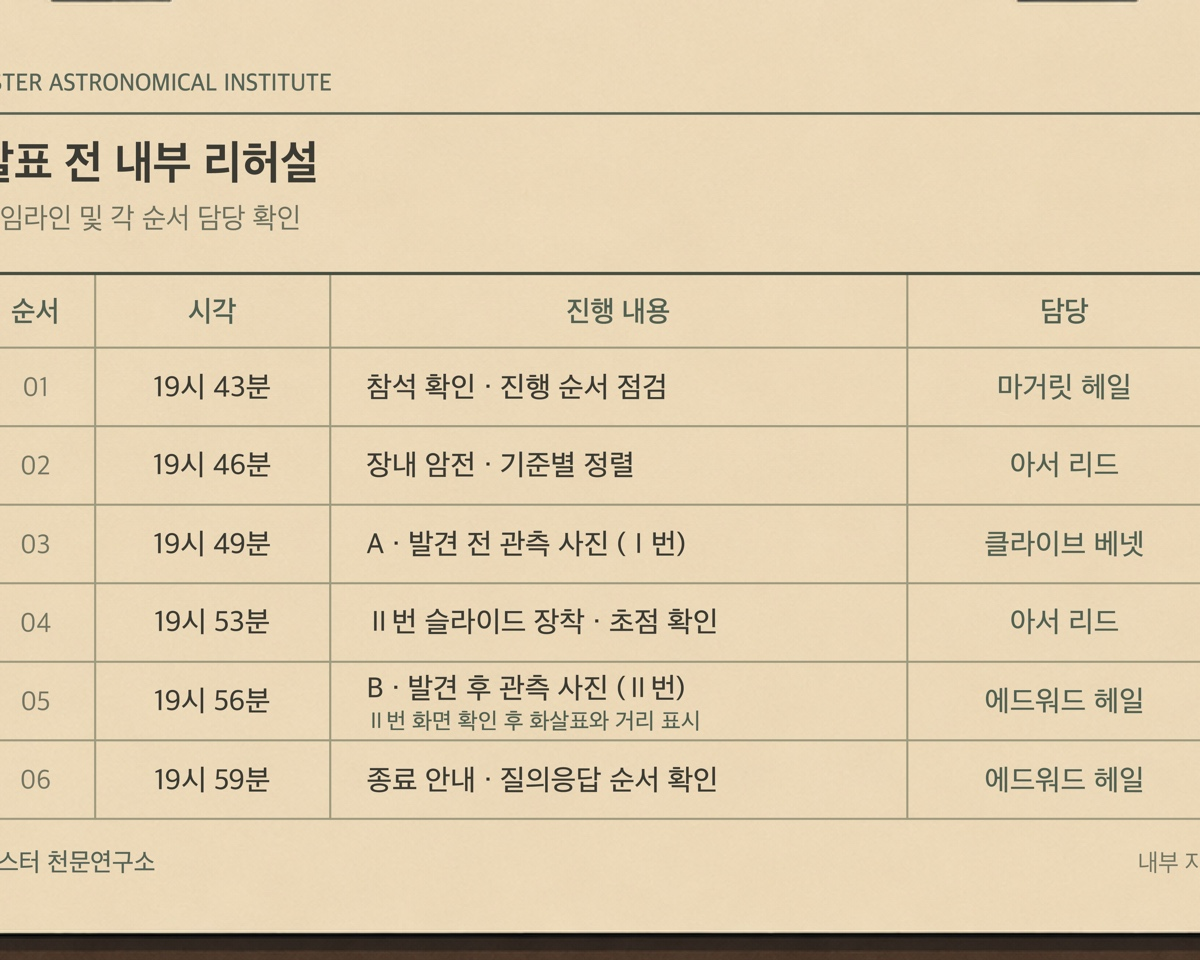
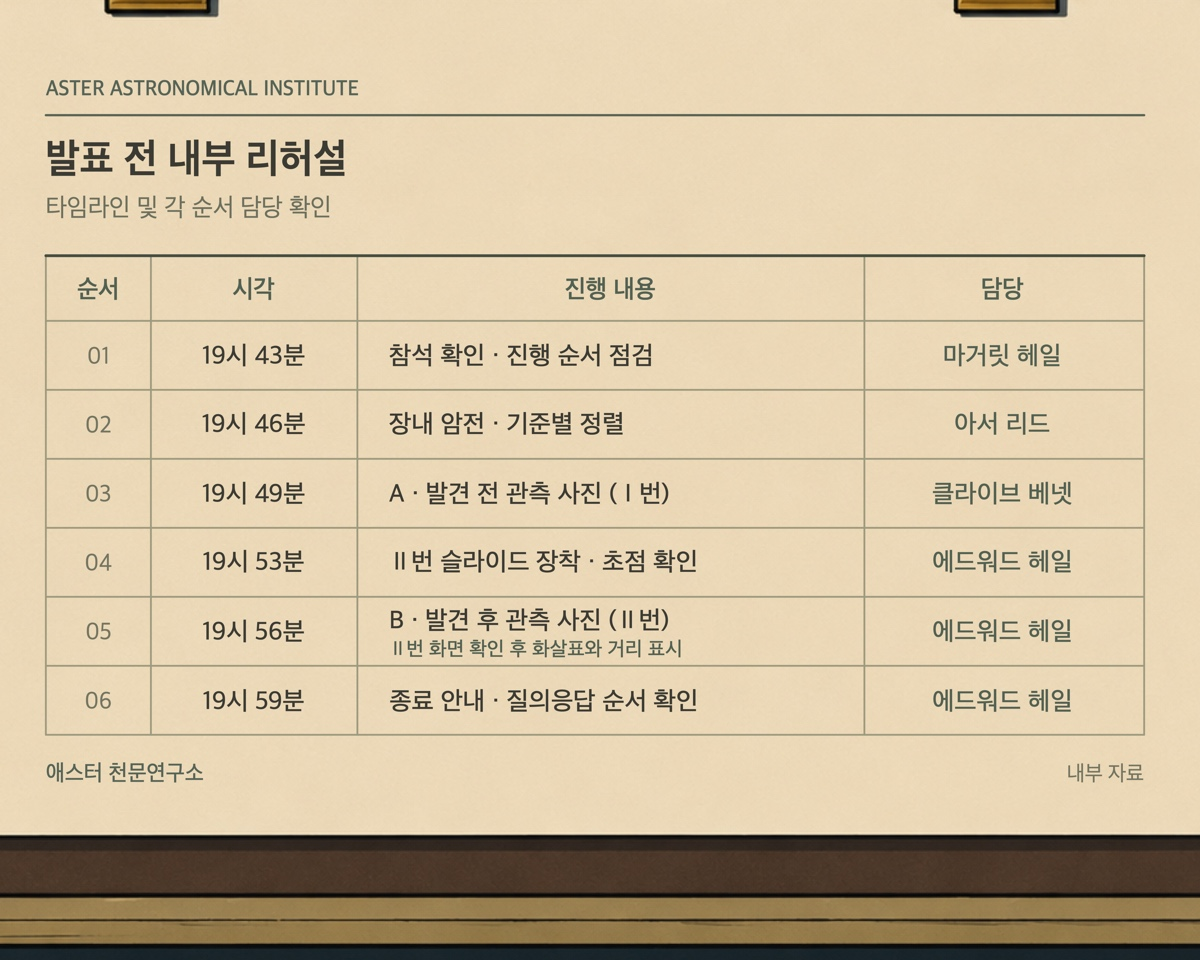
Fit the case overview, restore page zoom, and refresh the schedule

Changed region(s): [[0.0, 0.0625, 1.0, 1.0], [0.7708, 0.0, 0.8942, 0.0312], [0.0617, 0.0, 0.185, 0.0312]]

diff --git a/traces-of-guilt/style.css b/traces-of-guilt/style.css
@@ -2039,6 +2039,7 @@ body:has(.viewer[open], .hint-confirm[open], .answer-confirm[open], .suspect-pic
   .paper-right { padding-top: 1rem; border-top: 1px solid #c0aa855c; border-radius: 0 0 4px 4px; --page-joint: linear-gradient(#7d5c3225, transparent 9%); }
   .paper-left { --page-joint: linear-gradient(transparent, transparent); }
   .case-intro h3 { max-width: 11em; font-size: clamp(1.55rem, 6.3vw, 2.4rem); }
+  .case-intro .paper-description { margin-top: .55rem; font-size: .86rem; line-height: 1.52; }
   .case-objective { font-size: .86rem; margin-top: .45rem; }
   .overview-index { margin-block: .45rem; }
   .art-page, .hint-page { --margin: clamp(.8rem, 3.6vw, 1.5rem); }
@@ -2065,8 +2066,6 @@ body:has(.viewer[open], .hint-confirm[open], .answer-confirm[open], .suspect-pic
 
 @media (max-width: 760px), (max-height: 500px) and (orientation: landscape) {
   .desk:not(.is-reading) .paper { --margin: clamp(.7rem, 3.1vw, 1.15rem); }
-  .desk:not(.is-reading) .case-intro h3 { font-size: clamp(1.55rem, 6.3vw, 2.4rem); }
-  .desk:not(.is-reading) .paper-description { margin-top: .55rem; font-size: .9rem; line-height: 1.55; }
   .desk:not(.is-reading) .clue-index {
     display: grid;
     grid-template-columns: repeat(2, minmax(0, 1fr));
@@ -2085,7 +2084,6 @@ body:has(.viewer[open], .hint-confirm[open], .answer-confirm[open], .suspect-pic
     overflow-wrap: anywhere;
   }
   .desk:not(.is-reading) .clue-index .icon { display: none; }
-  .desk:not(.is-reading) .case-intro .paper-description { font-size: .84rem; line-height: 1.48; }
 }
 
 @media (max-width: 760px) {
@@ -2123,12 +2121,27 @@ body:has(.viewer[open], .hint-confirm[open], .answer-confirm[open], .suspect-pic
   .desk .reader { --edge-depth: 8px; --page-nav-padding: .32rem; }
 }
 
-@media (min-width: 761px) and (max-width: 1080px) {
-  .case-intro { --margin: clamp(.75rem, 1.8vw, 1.35rem); }
-  .case-intro h3 { margin-top: .3rem; font-size: clamp(1.65rem, 3.1vw, 2.2rem); }
-  .case-intro .paper-description { margin-top: .5rem; font-size: .88rem; line-height: 1.52; }
-  .case-intro .case-objective { margin-top: .5rem; font-size: .8rem; line-height: 1.45; }
-  .case-intro .overview-index { margin-block: .4rem; }
+@media (min-width: 761px) {
+  .case-intro { --margin: clamp(.8rem, calc(var(--leaf-height) * .056), 2.4rem); }
+  .case-intro-content {
+    min-height: 0;
+    overflow: auto;
+    overscroll-behavior: contain;
+    scrollbar-width: thin;
+    scrollbar-color: #95724d #dfcdab;
+  }
+  .case-intro h3 {
+    margin-top: clamp(.3rem, calc(var(--leaf-height) * .016), .65rem);
+    font-size: clamp(1.35rem, calc(var(--leaf-height) * .09), 2.75rem);
+    line-height: 1.13;
+  }
+  .case-intro .paper-description {
+    margin-top: clamp(.42rem, calc(var(--leaf-height) * .024), .85rem);
+    font-size: clamp(.84rem, calc(var(--leaf-height) * .035), 1.02rem);
+    line-height: 1.55;
+  }
+  .case-intro .case-objective { margin-top: .48rem; font-size: .86rem; line-height: 1.5; }
+  .case-intro .overview-index { margin-block: .42rem 0; }
 }
 
 @media (min-width: 761px) and (max-height: 500px) {
@@ -2150,10 +2163,10 @@ body:has(.viewer[open], .hint-confirm[open], .answer-confirm[open], .suspect-pic
 @media (max-width: 360px) {
   .desk { --desk-gutter: .75rem; }
   .desk:not(.is-reading) .case-intro { --margin: .65rem; }
-  .desk:not(.is-reading) .case-intro h3 { margin-top: .22rem; font-size: 1.36rem; }
-  .desk:not(.is-reading) .case-intro .paper-description { margin-top: .4rem; font-size: .79rem; line-height: 1.42; }
-  .desk:not(.is-reading) .case-objective { margin-top: .35rem; font-size: .78rem; line-height: 1.4; }
-  .desk:not(.is-reading) .overview-index { margin-block: .3rem; }
+  .case-intro h3 { margin-top: .22rem; font-size: 1.36rem; }
+  .case-intro .paper-description { margin-top: .4rem; font-size: .79rem; line-height: 1.42; }
+  .case-intro .case-objective { margin-top: .35rem; font-size: .78rem; line-height: 1.4; }
+  .case-intro .overview-index { margin-block: .3rem; }
   .desk:not(.is-reading) .scene-map { width: min(100%, 31dvh); }
   .hint-card { --hint-pad: .52rem; min-height: 4.45rem; }
   .hint-card p { font-size: .86rem; line-height: 1.49; }

diff --git a/traces-of-guilt/game.js b/traces-of-guilt/game.js
@@ -1,4 +1,4 @@
-import { caseFile } from "./case-data.js?v=solution-slide-switch";
+import { caseFile } from "./case-data.js?v=book-overview";
 
 const entrance = document.querySelector(".entrance");
 const enterButton = entrance.querySelector(".enter-room");
@@ -243,14 +243,15 @@ function overview(left, right) {
   const { title, scene } = caseFile;
   left.classList.add("case-intro");
   right.classList.add("art-page");
-  left.innerHTML = `<p class="paper-kicker">${scene.period}</p>
+  left.innerHTML = `<div class="case-intro-content">
+    <p class="paper-kicker">${scene.period}</p>
     <h3 tabindex="-1">${title}</h3>
     ${scene.description.map(paragraph => `<p class="paper-description">${paragraph}</p>`).join("")}
     <p class="case-objective">${scene.objective}</p>
     <details class="overview-index"><summary>단서 목록</summary>
       <ol class="clue-index">${clueLinks.map(({ sheetIndex, clueNumber, action }) => `<li><button type="button" data-clue="${sheetIndex}">
         <span>${number(clueNumber)}</span><span>${action}</span></button></li>`).join("")}</ol>
-    </details>`;
+    </details></div>`;
   right.innerHTML = `${sheetHeading(scene.title, scene.image)}
     ${sceneArt(`${scene.title} 사건 현장`, scene.image)}`;
 }
@@ -525,10 +526,10 @@ function turnPage(outgoing, incoming, forward, nextClue) {
 
 function updateNavigation() {
   const currentPage = Math.max(0, activePage);
-  pageCount.textContent = `${currentPage + 1} / ${lastPage + 1} 펼침면`;
+  pageCount.textContent = activePage === overviewPage ? "사건 개요" : `${activePage + 1} / ${lastPage + 1} 펼침면`;
   for (const button of reader.querySelectorAll("[data-step]")) {
-    const destination = currentPage + Number(button.dataset.step);
-    button.disabled = destination < 0 || destination > lastPage;
+    const destination = activePage + Number(button.dataset.step);
+    button.disabled = destination < overviewPage || destination > lastPage;
   }
   clueTabs.hidden = !clueLinks.length || activePage >= hintsPage;
   for (const button of reader.querySelectorAll(".bookmarks [data-page]")) {
@@ -575,8 +576,7 @@ function focusSheet(layout) {
 }
 
 function stepSpread(step) {
-  const destination = Math.max(0, activePage) + step;
-  if (destination >= 0) showPage(destination);
+  showPage(activePage + step);
 }
 
 function showPage(page, animate = true, clue) {

diff --git a/traces-of-guilt/case-data.js b/traces-of-guilt/case-data.js
@@ -2,7 +2,7 @@ const illustrations = {
   scene: "planetarium/main.png?v=rehearsal-slide-handoff",
   testimonyA: "planetarium/witnesses-01.png?v=witness-proof",
   testimonyB: "planetarium/witnesses-02.png?v=character-faces",
-  schedule: "planetarium/schedule.png?v=clue-art-refresh",
+  schedule: "planetarium/schedule.png?v=book-overview",
   console: "planetarium/console.png?v=clue-art-refresh",
   photo: "planetarium/photo.png?v=clue-art-refresh",
   drawer: "planetarium/drawer.png?v=clue-art-refresh",
@@ -130,10 +130,10 @@ export const caseFile = {
     stepsTitle: "장면별 해설",
     steps: [
       {
-        image: "planetarium/solution/01-rehearsal-schedule.jpg",
-        alt: "19시 49분 리허설 A와 19시 56분 리허설 B가 적힌 진행표",
+        image: "planetarium/solution/01-rehearsal-schedule.jpg?v=book-overview",
+        alt: "리허설 A, 에드워드 헤일이 맡은 Ⅱ번 장착과 초점 확인, 리허설 B가 적힌 진행표",
         title: "예정된 리허설 순서",
-        text: "19시 49분에는 투영기에 먼저 끼운 Ⅰ번으로 발견 전 사진을 띄울 예정이었어요. Ⅱ번은 19시 53분에 장착하고 19시 56분에 보여주는 순서였죠. 화살표와 거리는 Ⅱ번 화면을 확인한 뒤에 표시하기로 했어요."
+        text: "19시 49분에는 투영기에 먼저 끼운 Ⅰ번으로 발견 전 사진을 띄울 예정이었어요. 에드워드 헤일은 19시 53분에 Ⅱ번을 장착하고 초점을 확인한 뒤, 19시 56분에 사진을 보여주기로 했어요. 화살표와 거리는 Ⅱ번 화면을 확인한 뒤에 표시하는 순서였어요."
       },
       {
         image: "planetarium/solution/02-margaret-testimony.jpg",

diff --git a/traces-of-guilt/index.html b/traces-of-guilt/index.html
@@ -8,8 +8,8 @@
   <meta name="site-kind" content="gaming">
   <title>Traces of Guilt</title>
   <link rel="canonical" href="https://iontail.github.io/traces-of-guilt/">
-  <link rel="stylesheet" href="style.css?v=solution-source">
-  <script src="game.js?v=solution-slide-switch" type="module"></script>
+  <link rel="stylesheet" href="style.css?v=book-overview">
+  <script src="game.js?v=book-overview" type="module"></script>
 </head>
 <body>
   <svg class="icon-definitions" aria-hidden="true" xmlns="http://www.w3.org/2000/svg">
